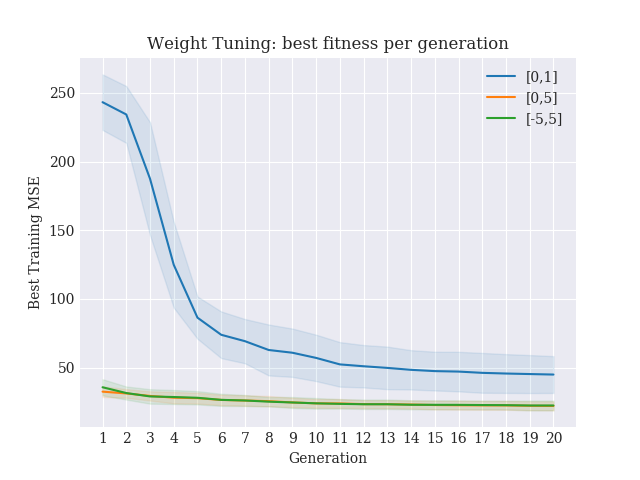
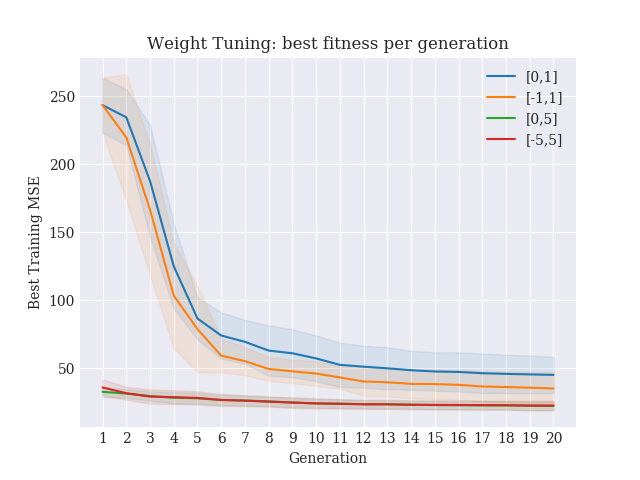
Plot weights

diff --git a/plots/plot_weights.py b/plots/plot_weights.py
@@ -15,10 +15,9 @@ gens = 20
 pop_size = 100
 weights = [
     ("../log/log_weight_0_1.txt", "[0,1]"),
+    ("../log/log_weight_-1_1.txt", "[-1,1]"),
     ("../log/log_weight_0_5.txt", "[0,5]"),
     ("../log/log_weight_-5_5.txt", "[-5,5]"),
-    # TODO: add the log below when finished
-    # ("../log/log_weights_-1_1", "[-1,1]")
 ]
 
 data = extract_all_data(weights, runs=runs, gens=gens, pop_size=pop_size)
@@ -75,43 +74,54 @@ plt.show()
 
 # %%
 
-palette = plt.get_cmap('tab20')
+palette = plt.get_cmap('tab10')
 
-# Plot the average improvement with weight tuning
+# Plot the average fitness before weight tuning
 plt.figure()
 plt.xlabel("Generation")
 plt.ylabel("Training MSE")
 plt.xticks(x)
-plt.title("Weight Tuning: ")
+plt.title("Weight Tuning: average fitness before")
+plt.yscale("log")
 
-plt.ylim([0, 1500])
 color = 0
 
-# If the plots are combined, you wont see the difference for the smaller one
-
-# select = list(data.keys())[1]
-# for w in [select]:
 for w in data.keys():
-    _, _, before, after = data[w]
+    _, _, before, _ = data[w]
 
     m_before, std_before = avg_over_runs(before)
-    m_after, std_after = avg_over_runs(after)
-
     plt.plot(x, m_before, color=palette(color), label=f"Before -{w}")
-    # plt.fill_between(x, m_before + std_before, m_before - std_before, color=palette(color), alpha=0.1)
+    plt.fill_between(x, m_before + std_before, m_before - std_before, color=palette(color), alpha=0.1)
 
-    plt.plot(x, m_after, color=palette(color + 1), label=f"After -{w}")
-    plt.fill_between(x, m_after + std_after, m_after - std_after, color=palette(color + 1), alpha=0.1)
-
-    # # TODO: this plot looks strange, it has a extreme outlier
-    # delta = before - after
-    # m_delta, std_delta = avg_over_runs(delta)
-    #
-    # plt.plot(x, m_delta, color=palette(color), label=w)
-    # plt.fill_between(x, m_delta + std_delta, m_delta - std_delta, color=palette(color), alpha=0.1)
-
-    color += 2
+    color += 1
 
 plt.legend()
-plt.savefig("../images/weight_test_delta")
+plt.savefig("../images/weight_test_before")
+plt.show()
+
+# %%
+
+palette = plt.get_cmap('tab10')
+
+# Plot the average fitness after weight tuning
+plt.figure()
+plt.xlabel("Generation")
+plt.ylabel("Training MSE")
+plt.xticks(x)
+plt.title("Weight Tuning: average fitness after")
+plt.yscale("log")
+
+color = 0
+
+for w in data.keys():
+    _, _, _, after = data[w]
+    m_after, std_after = avg_over_runs(after)
+
+    plt.plot(x, m_after, color=palette(color), label=f"After -{w}")
+    plt.fill_between(x, m_after + std_after, m_after - std_after, color=palette(color), alpha=0.1)
+
+    color += 1
+
+plt.legend()
+plt.savefig("../images/weight_test_after")
 plt.show()
